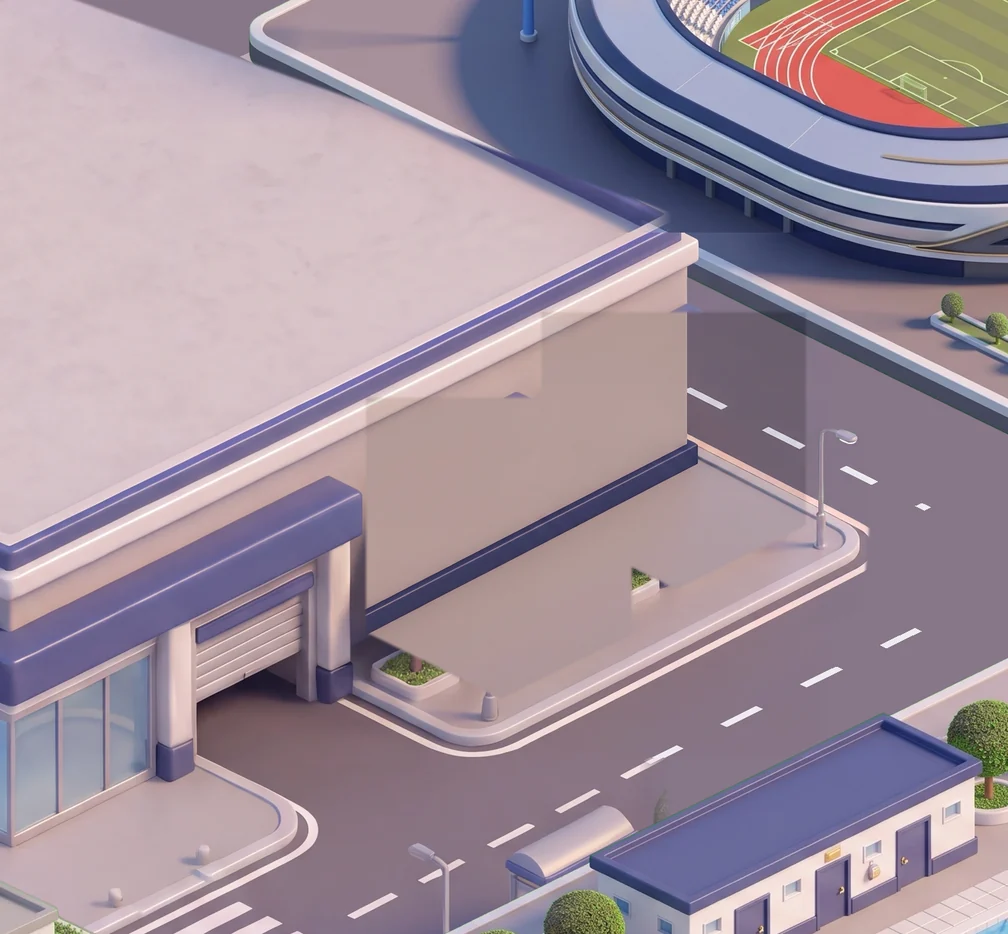
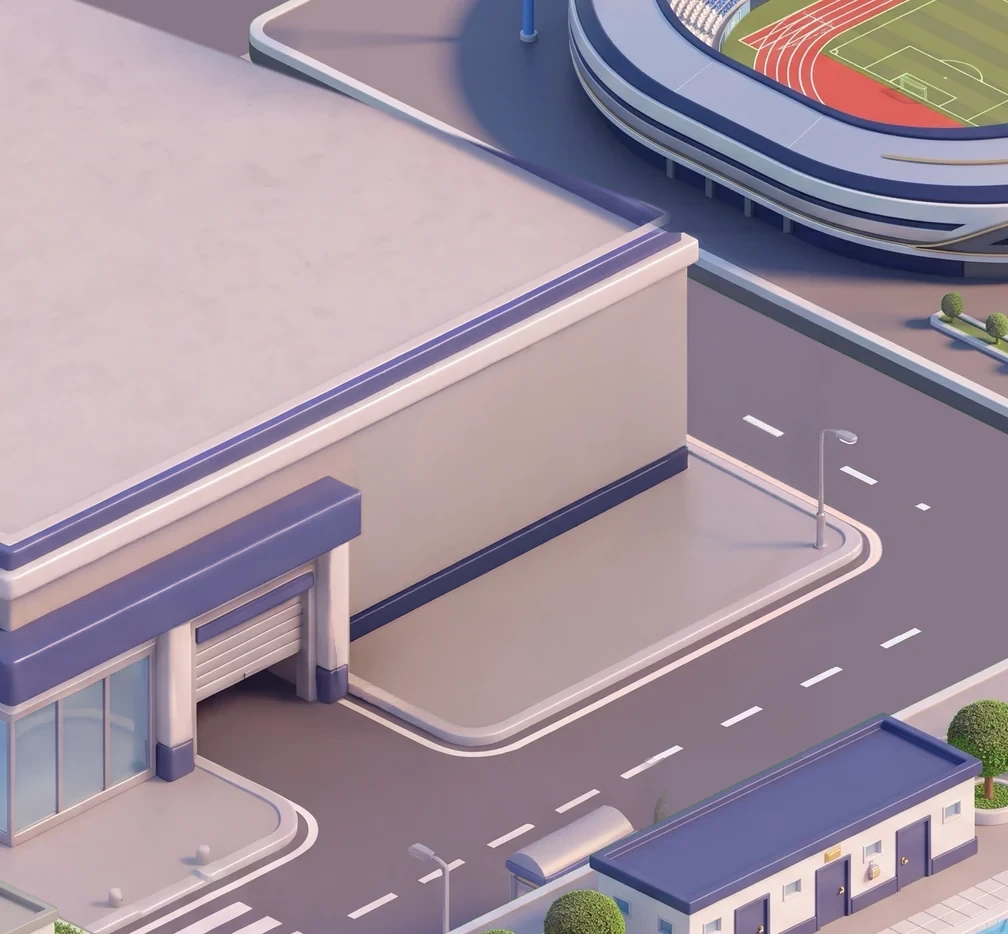
Lobby: clean up the painted-out kiosk seams with Photoshop Generative Fill (#57)
* Handoff for the PC session: fix the lobby seams with Photoshop's Generative Fill

The lobby picture (four city tiles side by side), a copy with the two areas
to fix marked, the instructions, and a script to cut the edited picture back
into the tiles.

Claude-Session: https://claude.ai/code/session_01MKPtPqT9cLfraEnRb8y9iB

* Lobby: blend the painted-out kiosk patches with Photoshop Generative Fill

Both sides of the tower's lobby: the mismatched wall and pavement patches,
their straight seams, the cornice seam and the road tint are filled to
match the painting round them, and the half planters, post stubs and stray
pole are gone. Whole trees and the lamp post are kept.

handoff/lobby-edited.png is the edited picture; tools/lobby-tiles.py cut it
back into city-1-1, city-1-2, city-2-1 and city-2-2.

* Lobby: keep only the fixed tiles; drop the handoff files

Claude-Session: https://claude.ai/code/session_01MKPtPqT9cLfraEnRb8y9iB

---------

diff --git a/sw.js b/sw.js
@@ -1,7 +1,7 @@
 // sw.js — offline-first service worker. Precaches the app shell and serves
 // cache-first, falling back to the network (and to index.html for navigations).
 
-const CACHE = 'triquest-v113';
+const CACHE = 'triquest-v114';
 const ASSETS = [
   './',
   './index.html',

diff --git a/tools/lobby-tiles.py b/tools/lobby-tiles.py
@@ -1,0 +1,20 @@
+"""lobby-tiles.py — put an edited lobby picture back into the city tiles (docs/CITY.md, "Editing the lobby").
+
+    python3 tools/lobby-tiles.py <lobby-edited.png>
+
+The lobby picture is the four city tiles city-1-1, city-1-2, city-2-1 and city-2-2
+(icons/City/layers/tiles/, 1008 x 934 px each as stored) side by side: 2016 x 1868 px.
+This cuts it back into those four and writes them over the old ones. Pillow only.
+"""
+import sys
+from PIL import Image
+
+W, H = 1008, 934
+im = Image.open(sys.argv[1]).convert('RGBA')
+if im.size != (2 * W, 2 * H):
+    sys.exit(f'expected {2 * W} x {2 * H} px, got {im.size[0]} x {im.size[1]}: keep the lobby picture's size')
+for r in (1, 2):
+    for c in (1, 2):
+        x, y = (c - 1) * W, (r - 1) * H
+        im.crop((x, y, x + W, y + H)).save(f'icons/City/layers/tiles/city-{r}-{c}.webp', quality=90, method=6)
+        print(f'wrote city-{r}-{c}.webp')

diff --git a/docs/CITY.md b/docs/CITY.md
@@ -216,6 +216,13 @@ Don't put a city-sized layer over a 3D canvas, the city's or the runner's on the
 
 The parcel bubble sits on a small layer of its own over the 3D canvas, `.dg-front`, with no size of its own, so it shows over the 3D sign at the cost of the bubble only.
 
+## Editing the lobby
+
+The lobby round the tower's base is four city tiles: `city-1-1`, `city-1-2`, `city-2-1` and `city-2-2`. Laid out 2 × 2 they make a 2016 × 1868 px picture.
+
+- To retouch it, put those four tiles side by side, edit the result (keeping its size and transparency), and cut it back with `tools/lobby-tiles.py`.
+- The seams left where the kiosks were painted out were cleaned up this way, in Photoshop with Generative Fill.
+
 ## The railing
 
 Each floor's roof slab has a railing round it: a navy kerb with gold rails (`icons/City/rail/`, cut by `tools/cut-rail.py`).
